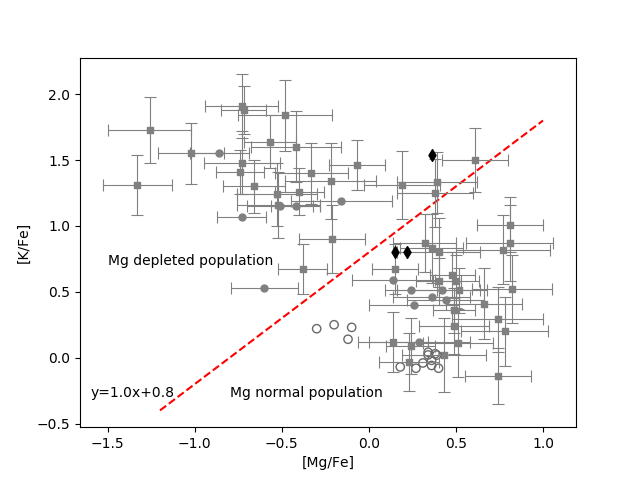
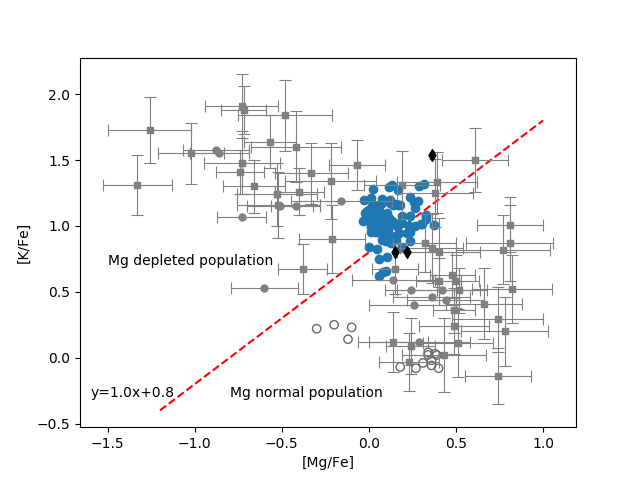
Expanded abstract, slightly modified some of the place holder pics

Changed region(s): [[0.5625, 0.375, 0.6875, 0.5938]]

diff --git a/article/ms.tex b/article/ms.tex
@@ -110,10 +110,10 @@ $^{2}$ Faculty of Information Technology, Monash University, Clayton 3800, Victo
 % Abstract of the paper
 \begin{abstract}
 
-Stellar absorption spectra act as a record of the primordial conditions within which the star formed. Stars displaying unusual elemental abundances provide are of particular interest; these rare stars often offer clues about astrophysical events and objects that may no longer exist in our galaxy. Stars with  depleted Mg and enhanced K abundances, measured as [Mg/Fe] and [K/Fe], have thus far only been found in the two massive globular clustersr NGC 2419 and NGC 2808. The origin of this abundance signature remains unknown, as does the reason for its apparent exclusivity to these two globular clusters. A satisfactory explanation for this signature has potential to influence theories of globular cluster formation and shed light on the long-standing problem of the underestimation of stars with typical galactic values of [K/Fe]. The apparent exclusivity of this Mg-K anti-correlation to globular clusters is the focus of this survey. Here we present 113 candidate field stars (from a sample size of \LamostGiants \ giants from \lamost \ DR2) that have spectra consistent with anomalously depleted [Mg/Fe] and enhanced [K/Fe] abundances, though none with abundances comparable to the extreme population of stars identified in NGC 2419.
+Stellar absorption spectra act as a record of the primordial conditions within which the stars formed. Stars displaying unusual elemental abundances are of particular interest; these rare stars often offer clues about astrophysical events and objects that may no longer exist in our galaxy. Stars with  depleted Mg and enhanced K abundances, measured as [Mg/Fe] and [K/Fe], have thus far only been found in the two massive globular clusters NGC 2419 and NGC 2808. The origin of this abundance signature remains unknown, as does the reason for its apparent exclusivity to these two globular clusters. A satisfactory explanation for this signature has potential to influence theories of globular cluster formation and shed light on the long-standing problem of the underestimation of [K/Fe] among even 'normal' field stars in the Milky Way. The apparent exclusivity of this Mg-K anti-correlation to globular clusters is the focus of this paper. Here we present 113 candidate field stars (from a sample size of \LamostGiants \ giants from \lamost \ DR2) that have spectra consistent with slightly depleted [Mg/Fe] and significantly enhanced [K/Fe] abundances. None of these stars have abundances comparable to the extreme population of stars identified in NGC 2419. These stars are of a range of metalicities, and a new anti-correlation between [K/Fe] and [Fe/H] can be observed within the sample, although the veracity of said relation remains questionable. Two distinct populations can be formed by Na abundance within the sample, with 30\% of the candidates having calculated abundances well above typical galactic levels. Two scenarios designed at explaining the data are put forth, and the implications for select existing polluter candidate proposals are briefly discussed. These candidate stars should provide guidance for follow up surveys and modelling attempts attempting to determine the origin of the Mg-K anti-correlation.
 
 
-%454180 RGB stars from the low resolution LAMOST DR2 survey were searched for anomalously high K and depleted Mg signatures. This study represents the largest search for field stars containing the Mg-K anti-correlation so far identified only in the globular NGC 2419 and NGC 2808. 23 stars displaying absorption spectra with over-abundant K and depleted Mg accross a range of metalicities were identified, but none were identified as having [Mg/Fe] or [K/Fe] consistent with the Mg depleted population found in NGC 2419. The abundances in these 23 stars are estimated at ranging between [INSERT RANGE FOR K AND MG HERE BASED OFF LAMOST DATA]. High resolution spectra for three stars (1 of which is not included among the final count of 23 spectral candidates for the signiature for reasons relating to the LAMOST signal quality for that star, despite having the highest K abundance of the three at [K/Fe]=1.54) selected based on observability characteristics were obtained using the Las Campanas Observatory, and for these stars elemental abundances for heavy elements such as Sc and V are also presented.
+
 \end{abstract}
 
 % Select between one and six entries from the list of approved keywords.
